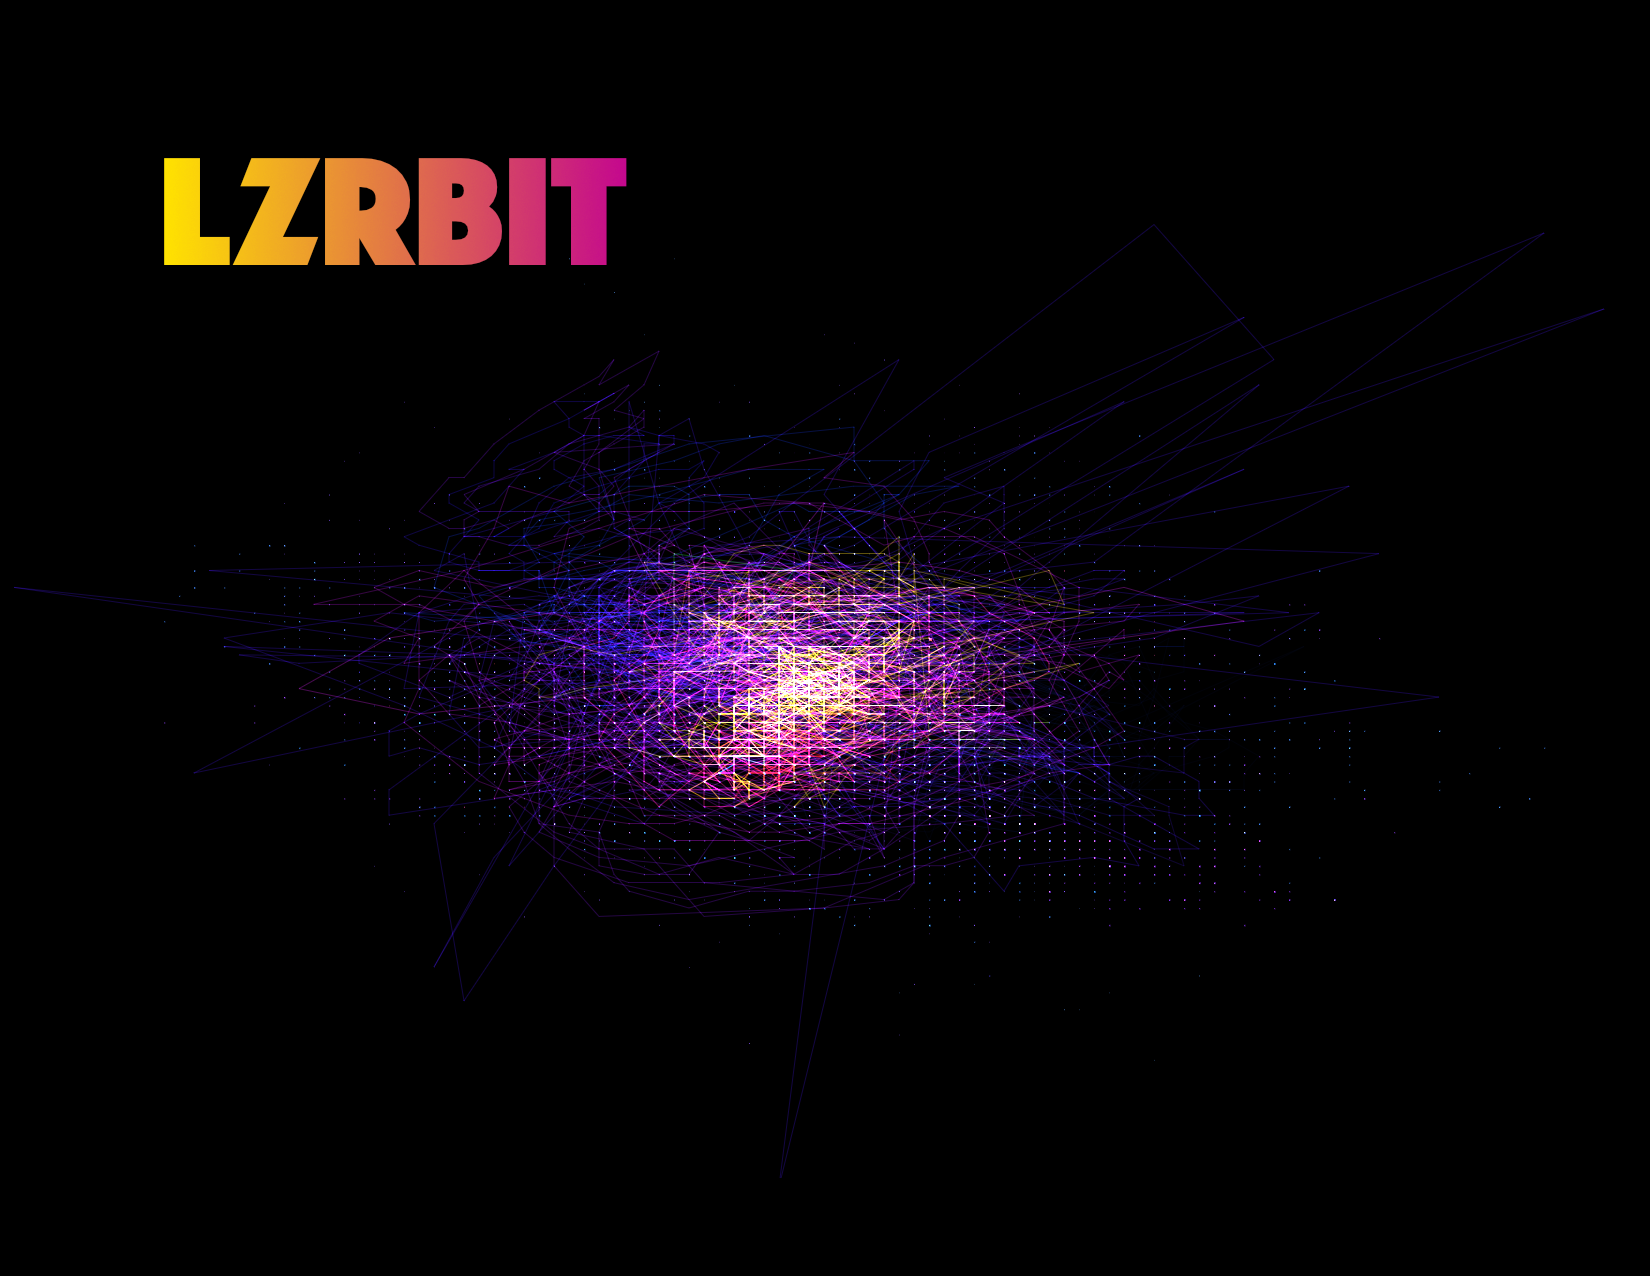
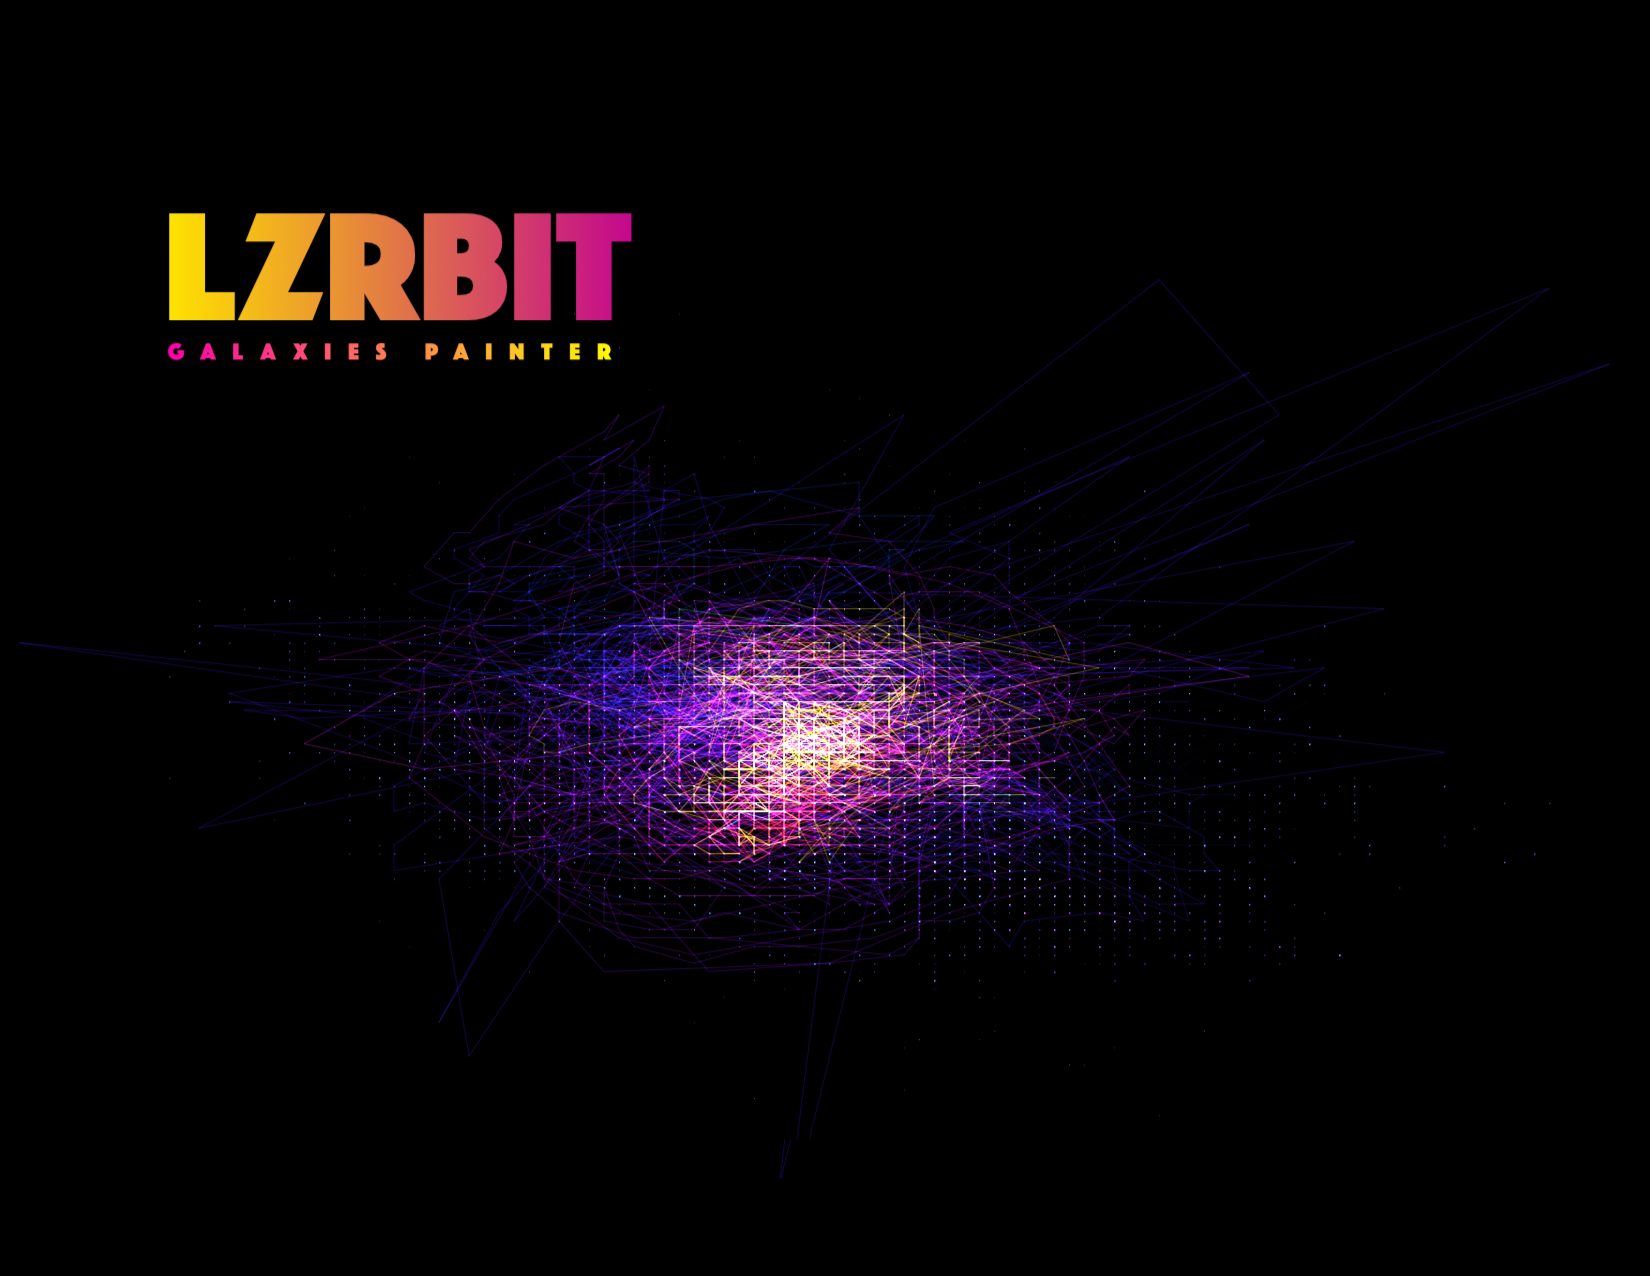
update

Changed region(s): [[0.0927, 0.1223, 0.8036, 0.7641], [0.7727, 0.4279, 0.8036, 0.4585]]

diff --git a/blog/lzrbit.html b/blog/lzrbit.html
@@ -133,7 +133,7 @@
 
 <section class="single">
 
-	<p><img src="/images/code/LZRBIT/LZRBIT-PORTADA.png" alt="" /></p>
+	<p><img src="/images/code/LZRBIT/LZR.png" alt="" /></p>
 
 <h1 id="what-is-lzrbit">WHAT IS LZRBIT?</h1>
 
